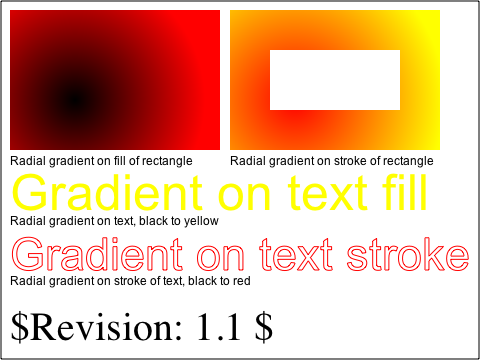
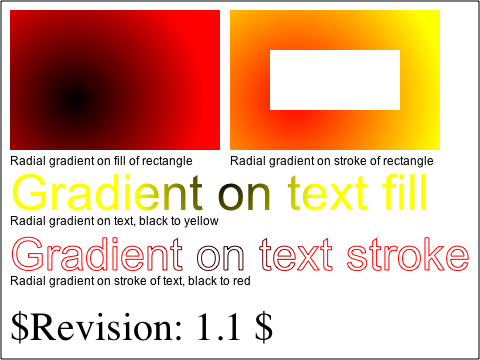
Reviewed by Eric.
Fixes: http://bugs.webkit.org/show_bug.cgi?id=10956

Long standing regression. The old code in FontMac.mm, used set the fill/stroke
color "[nsColor(graphicsContext->pen().color()) set];", and current code only
sets the fill color. Reverting to old behaviour fixes gradient-on-stroke-of-text.

git-svn-id: https://svn.webkit.org/repository/webkit/trunk@18271 268f45cc-cd09-0410-ab3c-d52691b4dbfc

diff --git a/WebCore/platform/mac/FontMac.mm b/WebCore/platform/mac/FontMac.mm
@@ -485,10 +485,13 @@ void Font::drawComplexText(GraphicsContext* graphicsContext, const TextRun& run,
     CGFloat colors[4];
     graphicsContext->pen().color().getRGBA(colors[0], colors[1], colors[2], colors[3]);
     static CGColorSpaceRef rgbColorSpace = CGColorSpaceCreateDeviceRGB();
-    
+
     CGContextSetFillColorSpace(context, rgbColorSpace);
-    CGContextSetFillColor(context, colors); // WebCore expects text to respect the pen color, CG expects text to use fill
-    
+    CGContextSetFillColor(context, colors);
+
+    CGContextSetStrokeColorSpace(context, rgbColorSpace);
+    CGContextSetStrokeColor(context, colors);
+
     CGContextTranslateCTM(context, point.x(), point.y());
     status = ATSUDrawText(params.m_layout, adjustedRun.from(), runLength, 0, 0);
     if (status == noErr && params.m_hasSyntheticBold) {
@@ -600,9 +603,12 @@ void Font::drawGlyphs(GraphicsContext* context, const FontData* font, const Glyp
     CGFloat colors[4];
     context->pen().color().getRGBA(colors[0], colors[1], colors[2], colors[3]);
     static CGColorSpaceRef rgbColorSpace = CGColorSpaceCreateDeviceRGB();
-    
+
     CGContextSetFillColorSpace(cgContext, rgbColorSpace);
-    CGContextSetFillColor(cgContext, colors); // WebCore expects text to respect the pen color, CG expects text to use fill
+    CGContextSetFillColor(cgContext, colors);
+
+    CGContextSetStrokeColorSpace(cgContext, rgbColorSpace);
+    CGContextSetStrokeColor(cgContext, colors);
 
     CGContextSetTextPosition(cgContext, point.x(), point.y());
     CGContextShowGlyphsWithAdvances(cgContext, glyphBuffer.glyphs(from), glyphBuffer.advances(from), numGlyphs);

diff --git a/WebCore/platform/graphics/svg/cg/SVGPaintServerGradientCg.cpp b/WebCore/platform/graphics/svg/cg/SVGPaintServerGradientCg.cpp
@@ -240,6 +240,8 @@ bool SVGPaintServerGradient::setup(GraphicsContext*& context, const RenderObject
     if (listener()) // this seems like bad design to me, should be in a common baseclass. -- ecs 8/6/05
         listener()->resourceNotification();
 
+    m_maskImage = 0;
+
     // FIXME: total const HACK!
     // We need a hook to call this when the gradient gets updated, before drawn.
     if (!m_shadingCache)
